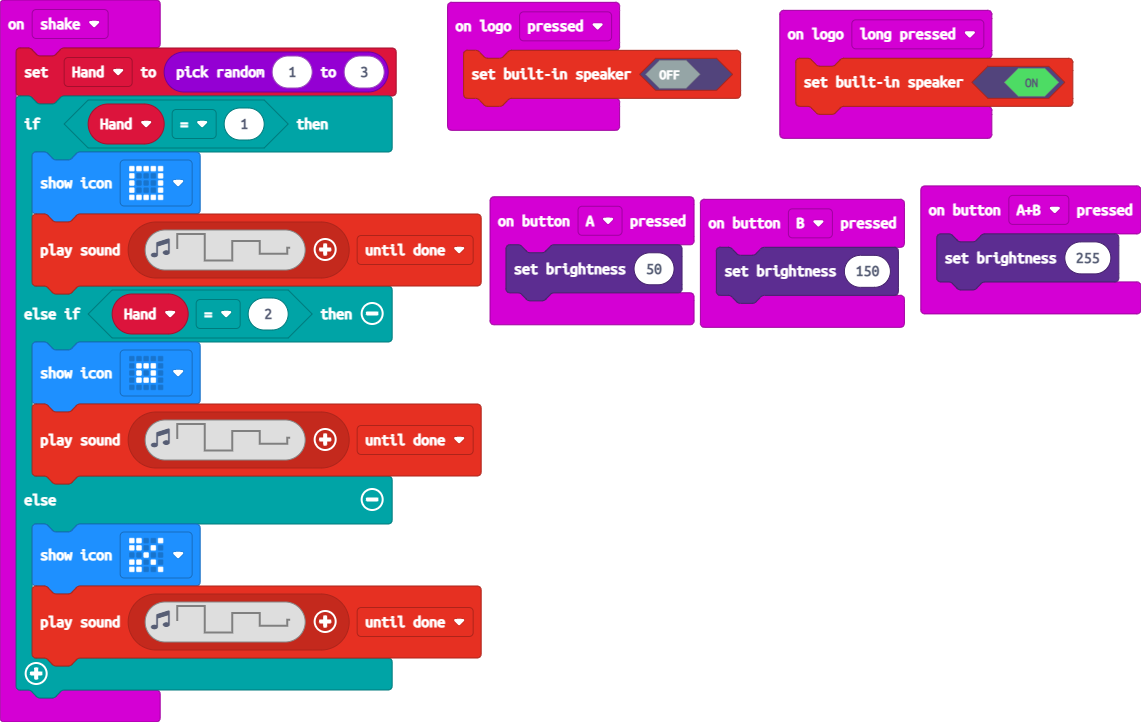
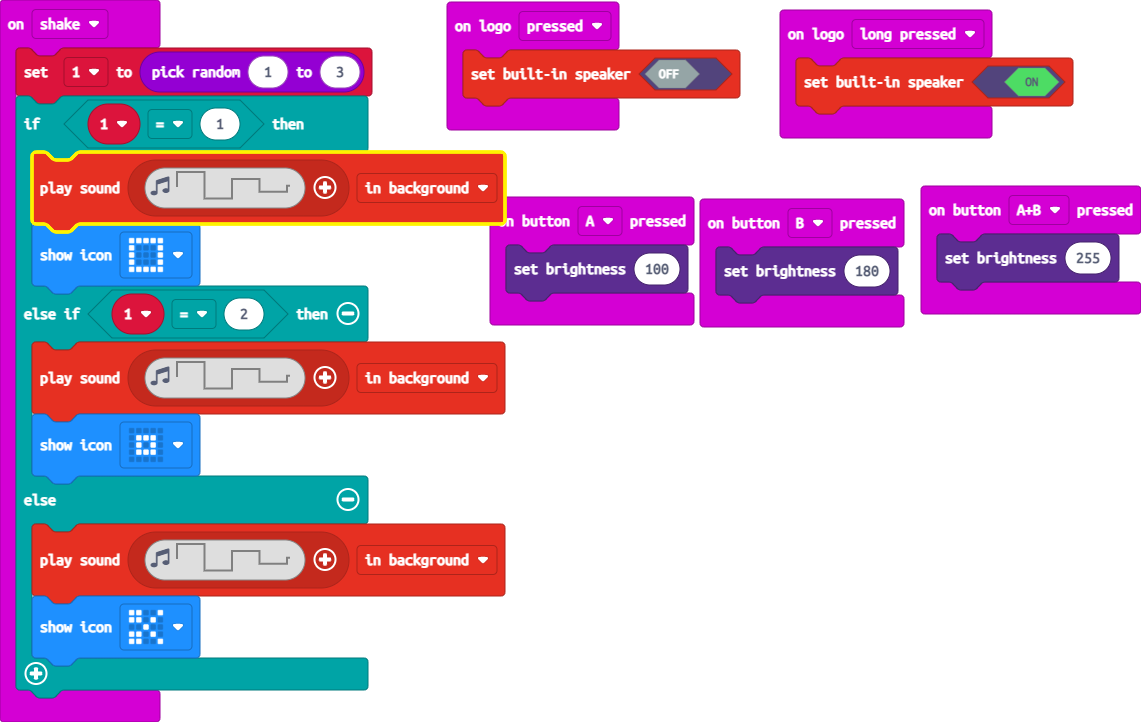
Update main.blocks, main.ts

diff --git a/main.ts b/main.ts
@@ -1,27 +1,27 @@
-let Hand = 0
+let _1 = 0
 input.onLogoEvent(TouchButtonEvent.LongPressed, function () {
     music.setBuiltInSpeakerEnabled(true)
 })
 input.onButtonPressed(Button.A, function () {
-    led.setBrightness(50)
+    led.setBrightness(100)
 })
 input.onButtonPressed(Button.AB, function () {
     led.setBrightness(255)
 })
 input.onButtonPressed(Button.B, function () {
-    led.setBrightness(150)
+    led.setBrightness(180)
 })
 input.onGesture(Gesture.Shake, function () {
-    Hand = randint(1, 3)
-    if (Hand == 1) {
+    _1 = randint(1, 3)
+    if (_1 == 1) {
+        music.playSoundEffect(music.createSoundEffect(WaveShape.Square, 500, 499, 255, 0, 750, SoundExpressionEffect.None, InterpolationCurve.Linear), SoundExpressionPlayMode.InBackground)
         basic.showIcon(IconNames.Square)
-        music.playSoundEffect(music.createSoundEffect(WaveShape.Square, 500, 499, 255, 0, 750, SoundExpressionEffect.None, InterpolationCurve.Linear), SoundExpressionPlayMode.UntilDone)
-    } else if (Hand == 2) {
+    } else if (_1 == 2) {
+        music.playSoundEffect(music.createSoundEffect(WaveShape.Square, 500, 499, 255, 0, 750, SoundExpressionEffect.None, InterpolationCurve.Linear), SoundExpressionPlayMode.InBackground)
         basic.showIcon(IconNames.SmallSquare)
-        music.playSoundEffect(music.createSoundEffect(WaveShape.Square, 500, 499, 255, 0, 750, SoundExpressionEffect.None, InterpolationCurve.Linear), SoundExpressionPlayMode.UntilDone)
     } else {
+        music.playSoundEffect(music.createSoundEffect(WaveShape.Square, 500, 499, 255, 0, 750, SoundExpressionEffect.None, InterpolationCurve.Linear), SoundExpressionPlayMode.InBackground)
         basic.showIcon(IconNames.Scissors)
-        music.playSoundEffect(music.createSoundEffect(WaveShape.Square, 500, 499, 255, 0, 750, SoundExpressionEffect.None, InterpolationCurve.Linear), SoundExpressionPlayMode.UntilDone)
     }
 })
 input.onLogoEvent(TouchButtonEvent.Pressed, function () {
